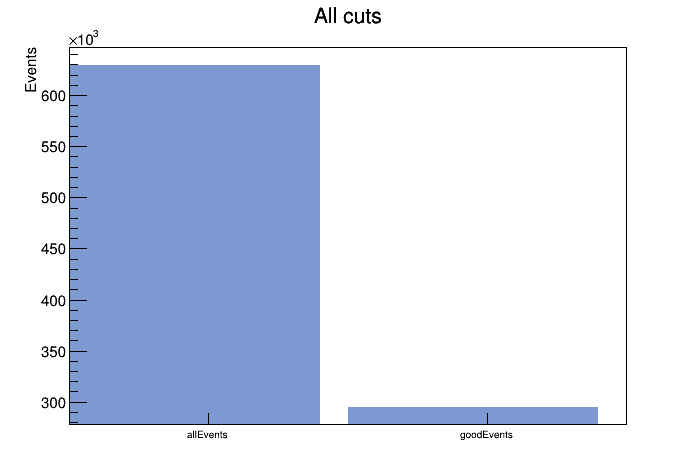
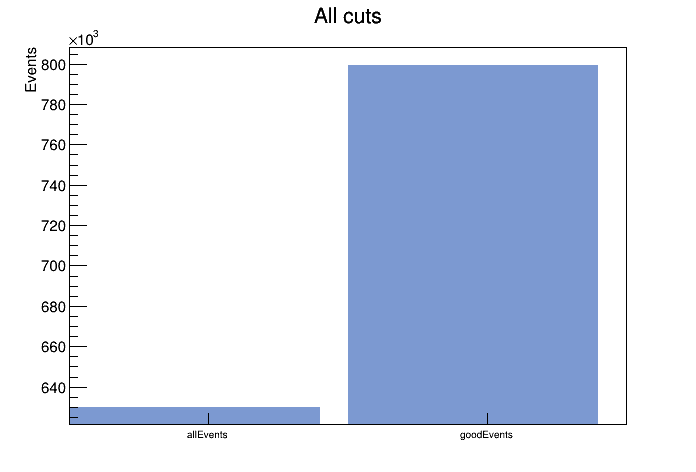
pics

diff --git a/macros/pics/Cuts_rej.C b/macros/pics/Cuts_rej.C
@@ -1,0 +1,65 @@
+{
+//=========Macro generated from canvas: c1/c1
+//=========  (Thu Nov 23 19:24:59 2017) by ROOT version5.34/34
+   TCanvas *c1 = new TCanvas("c1", "c1",0,0,700,500);
+   c1->Range(-1,290884.8,9,318674.7);
+   c1->SetFillColor(0);
+   c1->SetBorderMode(0);
+   c1->SetBorderSize(2);
+   c1->SetFrameBorderMode(0);
+   c1->SetFrameBorderMode(0);
+   
+   TH1F *hCutRejected = new TH1F("hCutRejected","Rejected Events",8,0,8);
+   hCutRejected->SetBinContent(1,314837);
+   hCutRejected->SetBinContent(2,294672);
+   hCutRejected->SetBinContent(3,294672);
+   hCutRejected->SetBinContent(4,294672);
+   hCutRejected->SetBinContent(5,294672);
+   hCutRejected->SetBinContent(6,294672);
+   hCutRejected->SetBinContent(7,294672);
+   hCutRejected->SetBinContent(8,294672);
+   hCutRejected->SetBarWidth(0.9);
+   hCutRejected->SetEntries(2377541);
+   hCutRejected->SetStats(0);
+   hCutRejected->SetFillColor(38);
+
+   Int_t ci;      // for color index setting
+   TColor *color; // for color definition with alpha
+   ci = TColor::GetColor("#000099");
+   hCutRejected->SetLineColor(ci);
+   hCutRejected->GetXaxis()->SetTitle(" ");
+   hCutRejected->GetXaxis()->SetBinLabel(1,"kGoodTRIGGER");
+   hCutRejected->GetXaxis()->SetBinLabel(2,"kGoodVertexCand");
+   hCutRejected->GetXaxis()->SetBinLabel(3,"kGoodVertexClast");
+   hCutRejected->GetXaxis()->SetBinLabel(4,"kGoodSTART");
+   hCutRejected->GetXaxis()->SetBinLabel(5,"kNoPileUpSTART");
+   hCutRejected->GetXaxis()->SetBinLabel(6,"kNoVETO");
+   hCutRejected->GetXaxis()->SetBinLabel(7,"kGoodSTARTVETO");
+   hCutRejected->GetXaxis()->SetBinLabel(8,"kGoodSTARTMETA");
+   hCutRejected->GetXaxis()->SetLabelFont(42);
+   hCutRejected->GetXaxis()->SetLabelSize(0.035);
+   hCutRejected->GetXaxis()->SetTitleSize(0.035);
+   hCutRejected->GetXaxis()->SetTitleFont(42);
+   hCutRejected->GetYaxis()->SetTitle(" Events");
+   hCutRejected->GetYaxis()->SetLabelFont(42);
+   hCutRejected->GetYaxis()->SetLabelSize(0.035);
+   hCutRejected->GetYaxis()->SetTitleSize(0.035);
+   hCutRejected->GetYaxis()->SetTitleFont(42);
+   hCutRejected->GetZaxis()->SetLabelFont(42);
+   hCutRejected->GetZaxis()->SetLabelSize(0.035);
+   hCutRejected->GetZaxis()->SetTitleSize(0.035);
+   hCutRejected->GetZaxis()->SetTitleFont(42);
+   hCutRejected->Draw("b");
+   
+   TPaveText *pt = new TPaveText(0.3570977,0.9339831,0.6429023,0.995,"blNDC");
+   pt->SetName("title");
+   pt->SetBorderSize(0);
+   pt->SetFillColor(0);
+   pt->SetFillStyle(0);
+   pt->SetTextFont(42);
+   TText *text = pt->AddText("Rejected Events");
+   pt->Draw();
+   c1->Modified();
+   c1->cd();
+   c1->SetSelected(c1);
+}

diff --git a/macros/pics/Cuts.C b/macros/pics/Cuts.C
@@ -1,8 +1,8 @@
 {
 //=========Macro generated from canvas: c1/c1
-//=========  (Thu Nov 23 11:46:55 2017) by ROOT version5.34/34
+//=========  (Thu Nov 23 19:24:59 2017) by ROOT version5.34/34
    TCanvas *c1 = new TCanvas("c1", "c1",0,0,700,500);
-   c1->Range(-1,441498.3,9,594686.6);
+   c1->Range(-1,441492.9,9,594728);
    c1->SetFillColor(0);
    c1->SetBorderMode(0);
    c1->SetBorderSize(2);
@@ -11,15 +11,15 @@
    
    TH1F *hCuts = new TH1F("hCuts","Event cuts",8,0,8);
    hCuts->SetBinContent(1,519426);
-   hCuts->SetBinContent(2,565599);
-   hCuts->SetBinContent(3,559654);
-   hCuts->SetBinContent(4,573532);
+   hCuts->SetBinContent(2,565545);
+   hCuts->SetBinContent(3,561965);
+   hCuts->SetBinContent(4,573567);
    hCuts->SetBinContent(5,565609);
    hCuts->SetBinContent(6,484219);
-   hCuts->SetBinContent(7,506251);
-   hCuts->SetBinContent(8,462375);
+   hCuts->SetBinContent(7,506254);
+   hCuts->SetBinContent(8,462376);
    hCuts->SetBarWidth(0.9);
-   hCuts->SetEntries(4236665);
+   hCuts->SetEntries(4238961);
    hCuts->SetStats(0);
    hCuts->SetFillColor(38);
 

diff --git a/macros/pics/Evt.C b/macros/pics/Evt.C
@@ -1,8 +1,8 @@
 {
 //=========Macro generated from canvas: c1/c1
-//=========  (Thu Nov 23 11:46:55 2017) by ROOT version5.34/34
+//=========  (Thu Nov 23 19:24:59 2017) by ROOT version5.34/34
    TCanvas *c1 = new TCanvas("c1", "c1",0,0,700,500);
-   c1->Range(-0.75,231683.1,1.75,693594.8);
+   c1->Range(-0.75,597937.5,1.75,831788.7);
    c1->SetFillColor(0);
    c1->SetBorderMode(0);
    c1->SetBorderSize(2);
@@ -11,9 +11,9 @@
    
    TH1F *hisgoodEvent = new TH1F("hisgoodEvent","All cuts",2,-0.5,1.5);
    hisgoodEvent->SetBinContent(1,629807);
-   hisgoodEvent->SetBinContent(2,294633);
+   hisgoodEvent->SetBinContent(2,799495);
    hisgoodEvent->SetBarWidth(0.9);
-   hisgoodEvent->SetEntries(924440);
+   hisgoodEvent->SetEntries(1429302);
    hisgoodEvent->SetStats(0);
    hisgoodEvent->SetFillColor(38);
 
